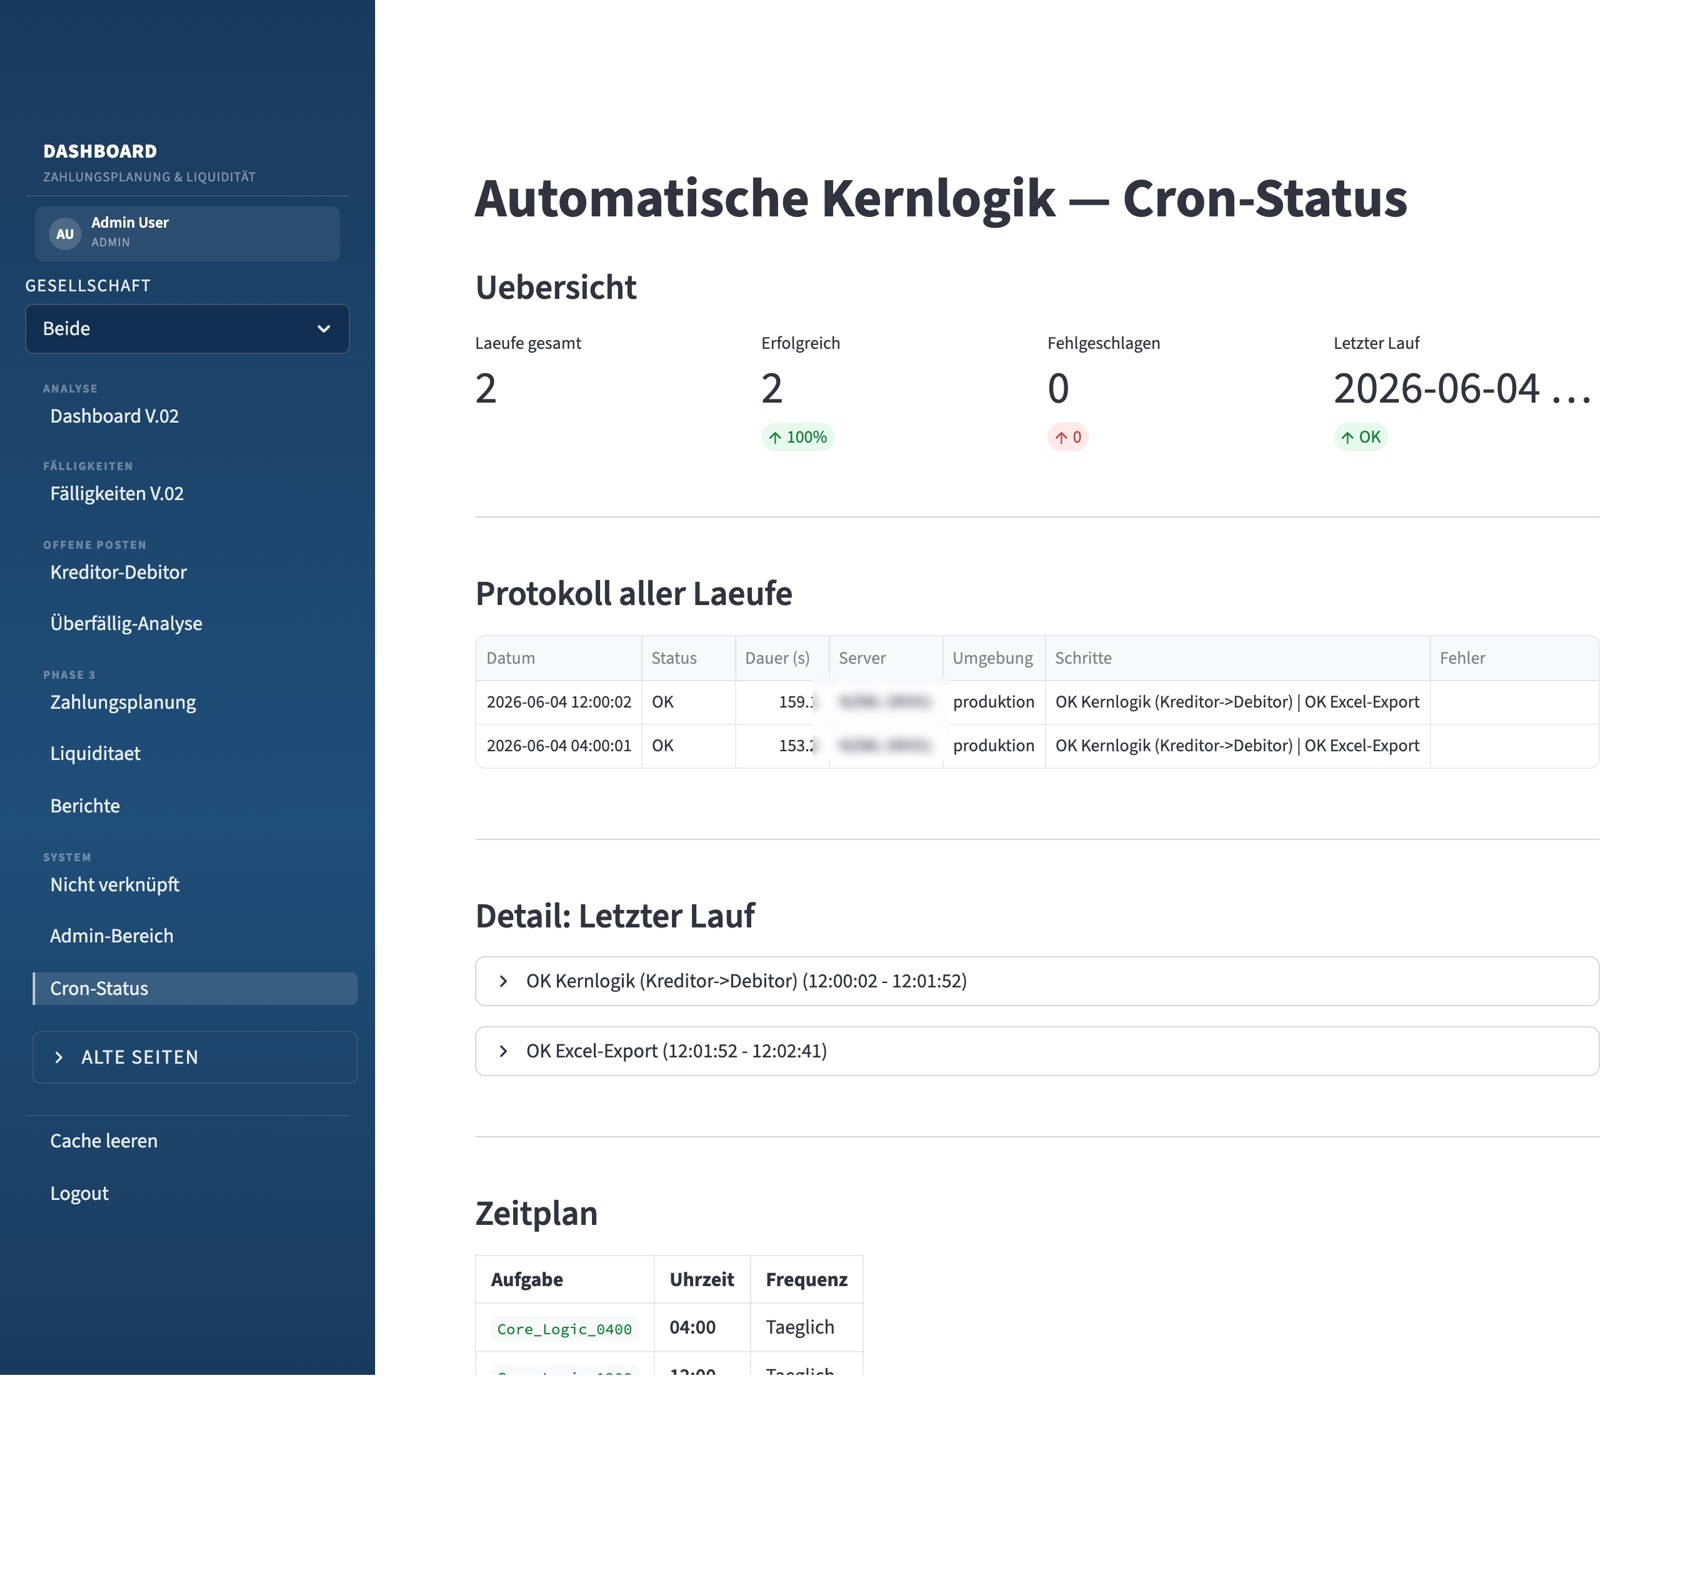
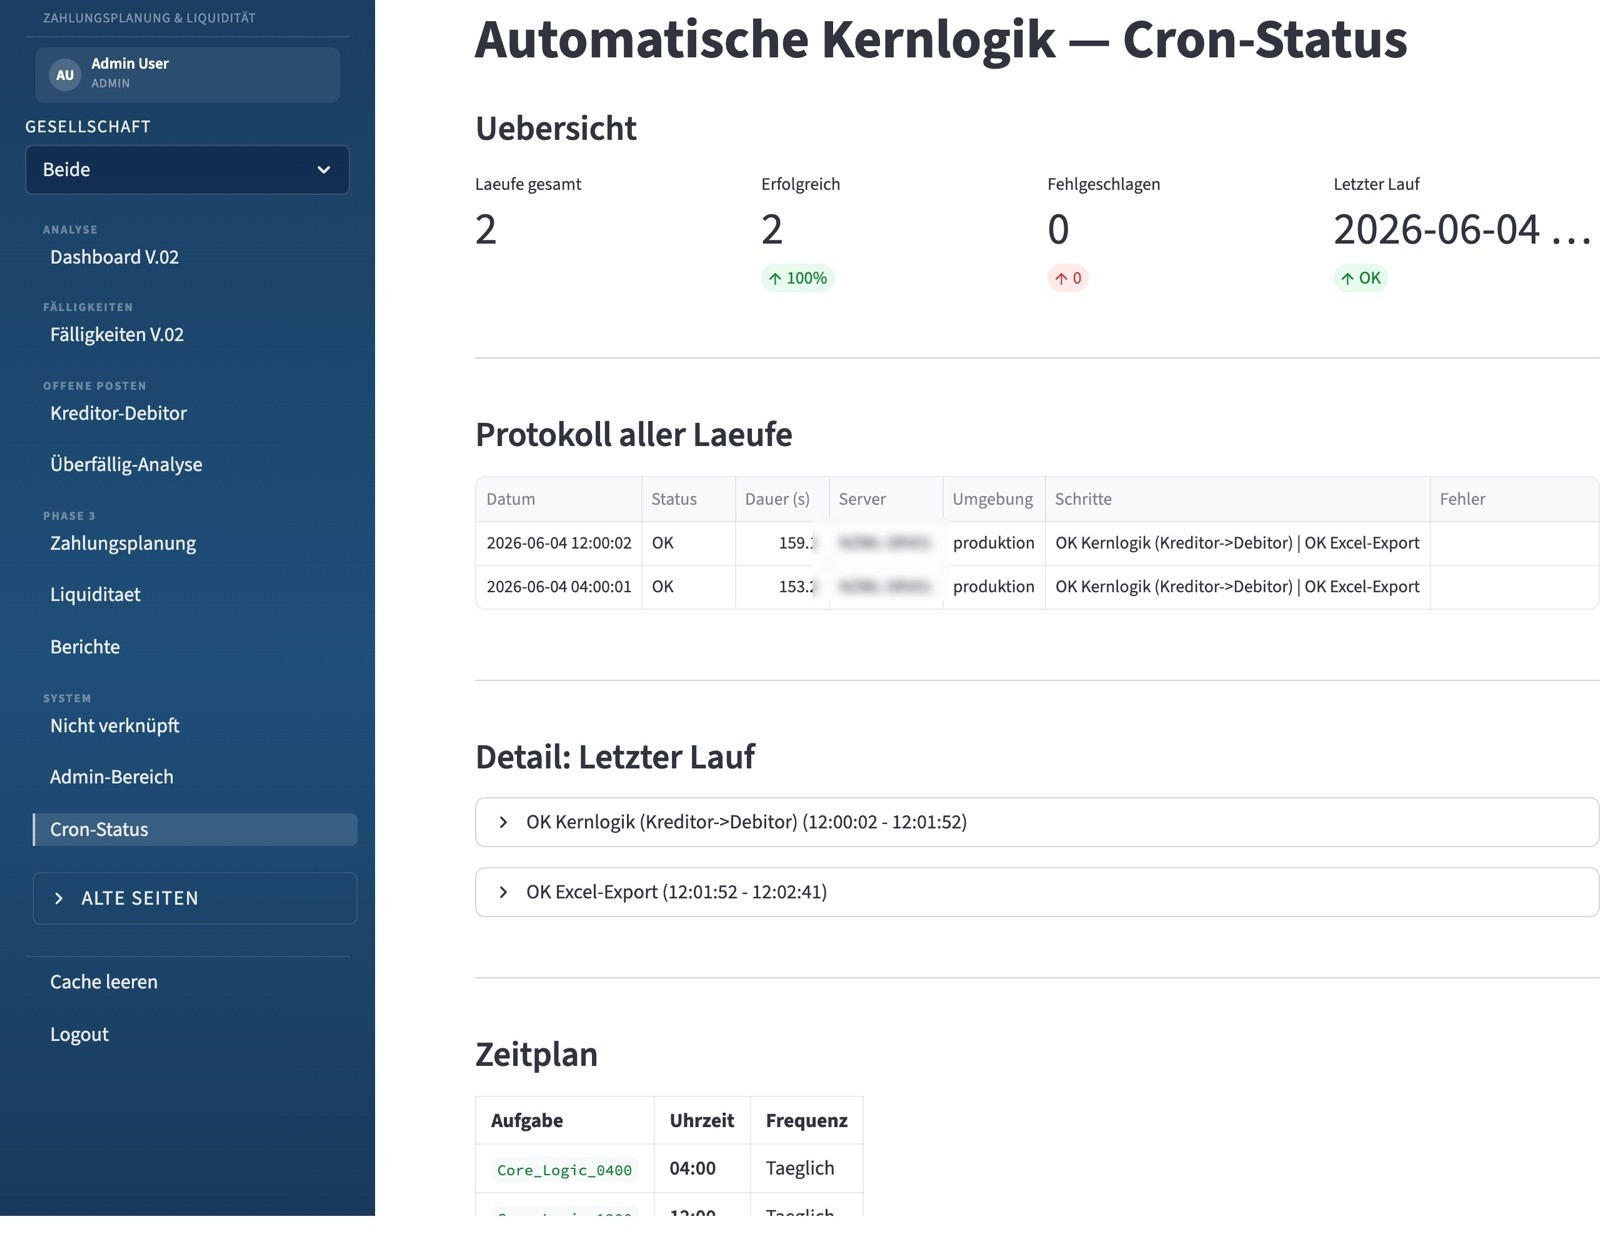
Payment Planning: KPI-Leiste entschaerft (echte Zahlen raus), Screenshots enger zugeschnitten, GIF content-dicht ohne weisse Flaechen
- KPI-Band: 2,36M -> '8M+ stress-tested', 573 OPOS / 49.3% match-quote / 100% on-premise entfernt
- 5 NZWL-Screenshots: Weissraum (v.a. Top-Rand) getrimmt, Inhalt fuellt den Rahmen
- payment-planning.gif neu: 4 content-dichte Frames (Kennzahlen, Ampel, Aging, Charts)

diff --git a/preview/payment-planning.html b/preview/payment-planning.html
@@ -34,7 +34,7 @@
   .note{margin-top:16px;font-size:.82rem;color:var(--faint);border-left:2px solid var(--accent);padding:4px 0 4px 12px}
 
   /* ---- key figures band ---- */
-  .kband{display:grid;grid-template-columns:repeat(6,1fr);gap:12px;margin-top:26px}
+  .kband{display:grid;grid-template-columns:repeat(4,1fr);gap:12px;margin-top:26px}
   .kcell{background:var(--panel);border:1px solid var(--border);border-radius:12px;padding:14px 14px}
   .kcell .kv{font-family:'Space Grotesk',sans-serif;font-size:1.45rem;font-weight:700;color:var(--text);line-height:1}
   .kcell .kl{font-size:.72rem;color:var(--faint);margin-top:7px;line-height:1.3}
@@ -89,7 +89,7 @@
     <p>A liquidity-control tool for a multi-entity industrial group. It imports SAP open items (OPOS),
        runs a four-step chain that links every creditor invoice through raw- and finished-part numbers to
        the end customer, then drives a traffic-light payment-approval workflow. A scheduled job re-runs the
-       core twice a day and exports Excel — 100% on-premise.</p>
+       core twice a day and exports Excel — fully on-premise.</p>
     <div class="meta">
       <span class="tag">Python</span><span class="tag">Streamlit</span><span class="tag">Pandas</span>
       <span class="tag">SAP OPOS import</span><span class="tag">SQLite</span><span class="tag">Role-based access</span>
@@ -105,11 +105,9 @@
 <div class="wrap">
   <div class="kband">
     <div class="kcell"><div class="kv">2</div><div class="kl">group entities consolidated</div></div>
-    <div class="kcell"><div class="kv">€2.36 M</div><div class="kl">open payables under control</div></div>
-    <div class="kcell"><div class="kv">573</div><div class="kl">SAP OPOS items / run</div></div>
-    <div class="kcell"><div class="kv">49.3%</div><div class="kl">auto-match quote</div></div>
+    <div class="kcell"><div class="kv">€8 M+</div><div class="kl">open payables stress-tested</div></div>
     <div class="kcell"><div class="kv">2×/day</div><div class="kl">unattended core runs</div></div>
-    <div class="kcell"><div class="kv">100%</div><div class="kl">on-premise</div></div>
+    <div class="kcell"><div class="kv">4-step</div><div class="kl">Kreditor→Debitor match chain</div></div>
   </div>
 </div>
 
